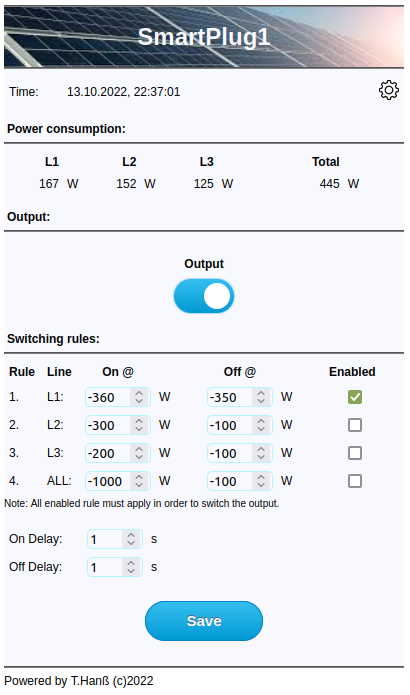
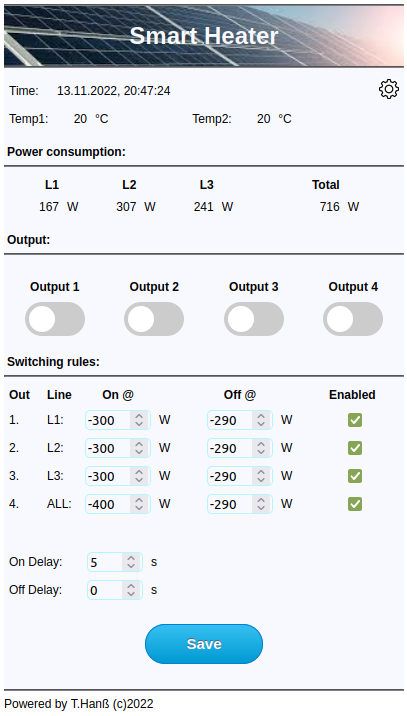
Add COM Timeout

diff --git a/src/mqtt.cpp b/src/mqtt.cpp
@@ -5,7 +5,6 @@
 #include "eMShome.h"
 #include "output.h"
 
-
 extern CLogging Logging;
 extern CSettings Config;
 extern COutput Outputs;
@@ -19,16 +18,18 @@ const char* mqttUsername = "thing"; //MQTT username
 const char* mqttPassword = "2coem6nx3lh3myhqvf7wfjkn4l2ge3g3"; //Thing Key
 const char* mqttDeviceId = "9821e7ac-ff82-4414-8cfc-7de47cea3e32"; //Thing ID
 
-
 Cmqtt::Cmqtt(void)
 {
+  for (int i = 0 ; i < NO_OF_TOPICS ; i++)
+  {
+    m_TopicList[i].TopicName = "";
+  }
+  client.setServer(mqttServer, 1883);
+  //client.setCallback(std::bind(&mqtt::callback,std::placeholders::_3,this));
+  client.setCallback(callback);
 
-    client.setServer(mqttServer, 1883);
-    //client.setCallback(std::bind(&mqtt::callback,std::placeholders::_3,this));
-    client.setCallback(callback);
 
-
-    xTaskCreate(taskHandler,"mqtt",512*4,this,2,NULL );
+  xTaskCreate(taskHandler,"mqtt",512*8,this,2,NULL );
 }
 
 void Cmqtt::taskHandler (void * ClassPointer)
@@ -40,23 +41,61 @@ void Cmqtt::taskHandler (void * ClassPointer)
 }
 
 
+
+void Cmqtt::publish(String TopicName, String Value, uint32_t nGap_s, uint32_t nRefresh_s )
+{
+  uint32_t Now = millis()/1000;
+  for (int i = 0 ; i < NO_OF_TOPICS ; i++)
+  {
+    if (  (m_TopicList[i].TopicName == TopicName) && 
+          (Now > (m_TopicList[i].LastSend + nGap_s)) && 
+          ( (m_TopicList[i].LastValue != Value) || (Now > (m_TopicList[i].LastSend + nRefresh_s)) ) )
+    {
+      Serial.printf("Found: %s Value: %s\n", TopicName, Value);
+      m_TopicList[i].LastValue = Value;
+      m_TopicList[i].LastSend = Now;
+      client.publish(TopicName.c_str(), Value.c_str()); 
+      return;
+    }
+    if (m_TopicList[i].TopicName  == "")
+    {
+      Serial.printf("New: %s Value: %s\n", TopicName, Value);
+      m_TopicList[i].TopicName = TopicName;
+      m_TopicList[i].LastValue = Value;
+      m_TopicList[i].LastSend = Now;
+      client.publish(TopicName.c_str(), Value.c_str()); 
+      return;
+    }
+  }
+}
+
+void Cmqtt::publish(String TopicName, int Value, uint32_t nGap_s, uint32_t nRefresh_s )
+{
+  publish(TopicName, String(Value), nGap_s, nRefresh_s );
+}
+
+void Cmqtt::publish(String TopicName, float Value, uint32_t nGap_s, uint32_t nRefresh_s )
+{
+  publish(TopicName, String(Value), nGap_s, nRefresh_s );
+}
+
 void Cmqtt::update (void )
 {
     reconnect();
     client.loop();
-    client.publish("WaterTemp", String(Logging.getSensor(0)).c_str());
-    client.publish("HeaterTemp", String(Logging.getSensor(1)).c_str());
-    client.publish("LineTotal", String(SmartMeter.getActivePower_W(0)).c_str());
-    client.publish("Line1", String(SmartMeter.getActivePower_W(1)).c_str());
-    client.publish("Line2", String(SmartMeter.getActivePower_W(2)).c_str());
-    client.publish("Line3", String(SmartMeter.getActivePower_W(3)).c_str());
-    client.publish("Output1", String(Outputs.get(0)*100).c_str());
-    client.publish("Output2", String(Outputs.get(1)*100).c_str());
-    client.publish("Output3", String(Outputs.get(2)*100).c_str());
-    client.publish("Output4", String(Outputs.get(3)*100).c_str());
-       
-}
+   
+    publish("WaterTemp", Logging.getSensor(0));
+    publish("HeaterTemp", Logging.getSensor(1));
+    publish("LineTotal", SmartMeter.getActivePower_W(0));
+    publish("Line1", SmartMeter.getActivePower_W(1));
+    publish("Line2", SmartMeter.getActivePower_W(2));
+    publish("Line3", SmartMeter.getActivePower_W(3));
+    publish("Output1", Outputs.get(0)*100);
+    publish("Output2", Outputs.get(1)*100);
+    publish("Output3", Outputs.get(2)*100);
+    publish("Output4", Outputs.get(3)*100);
 
+}
 
 void Cmqtt::reconnect(void)
 {
@@ -87,7 +126,7 @@ void Cmqtt::callback(char* topic, byte* payload, unsigned int length)
     Serial.print(" message: ");
     for (int i = 0; i < length; i++) 
     {
-        Serial.print((char)payload[i]);
+      Serial.print((char)payload[i]);
     }
     Serial.println();
 }

diff --git a/src/eMShome.cpp b/src/eMShome.cpp
@@ -141,7 +141,7 @@ void eMShome::taskHandler (void * ClassPointer)
     while(1){
         //printStack();
         static_cast<eMShome*> (ClassPointer)->update();
-        delay(250);
+        delay(TASK_INTERVAL_ms);
     }
 }
 
@@ -149,6 +149,8 @@ void eMShome::taskHandler (void * ClassPointer)
 //************************************************************
 void eMShome::update(void)
 {
+  static uint8_t TimeoutCounter = 0; // Timeout for getting new date
+  static uint64_t oldSeconds = 0;
 
   if (m_Conneced)
   {
@@ -163,6 +165,20 @@ void eMShome::update(void)
   {
     connect();
   }
+
+  if (oldSeconds != m_Seconds)
+  {
+    TimeoutCounter = 0;
+  }
+  oldSeconds = m_Seconds;
+  if (TimeoutCounter++ > (COM_TIMEOUT_ms / TASK_INTERVAL_ms)) //3s
+  {
+    ClearData();
+    m_Conneced = false;
+    connect();
+  }
+  
+
 }
 
 //************************************************************
@@ -518,4 +534,16 @@ int32_t eMShome::getActivePower_W(uint8_t Line)
   }
 
   return  (dataPoint[Index].Value / pow(10,dataPoint[Index].PowerOfTen))*dataPoint[Index].Sign;
+}
+
+
+//************************************************************
+//************************************************************
+// Line: 0 => Total; 1 => L1; 3 => L3; 3 => L3
+void eMShome::ClearData(void)
+{
+  for (int i = 0 ; i < 8;i++)
+  {
+   dataPoint[i].Value = 0;
+  }
 }

diff --git a/include/mqtt.h b/include/mqtt.h
@@ -4,8 +4,17 @@
 #include <WiFi.h>
 #include <PubSubClient.h>
 
+#define NO_OF_TOPICS 10
+
 class Cmqtt
 {
+    struct TxTopics
+    {
+        String TopicName;
+        String LastValue;
+        uint32_t LastSend;
+    };
+    
 public:
     Cmqtt();
     
@@ -13,9 +22,14 @@ public:
 private:
     static void taskHandler (void * ClassPointer);
     static void callback (char* topic, byte* payload, unsigned int length);
+    
+    void publish(String TopicName, float Value, uint32_t nGap_s = 15, uint32_t nRefresh_s  = (60*2) );
+    void publish(String TopicName, int Value, uint32_t nGap_s = 15, uint32_t nRefresh_s  = (60*2) );
+    void publish(String TopicName, String Value, uint32_t nGap_s = 15, uint32_t nRefresh_s = (60*2) );
     void update (void);
     void reconnect(void);
    
+    TxTopics  m_TopicList[NO_OF_TOPICS];
 };
 
 #endif

diff --git a/include/eMShome.h b/include/eMShome.h
@@ -9,7 +9,8 @@ using namespace websockets;
 
 //The Server sends data all 250ms. In order to reduce the CPU load skip ever x msg
 #define SKIP_EVER_x_MSG  4 
-
+#define TASK_INTERVAL_ms 100//ms
+#define COM_TIMEOUT_ms 3000
 class eMShome
 {
 public:
@@ -49,6 +50,8 @@ private:
   void updateDataPoint(uint64_t Key, uint64_t Value);
   void printMeasurmen (void); 
 
+  void ClearData(void);
+
   String     m_IP;      // SmartMeter IP
   String     m_PW;      // SmartMeter PW
 
@@ -56,6 +59,7 @@ private:
   String     m_buf;     // String buffer used to decode the Values
   uint32_t   m_pos;     // Possiont of the buffer used to decode the Values
  
+
   uint64_t   m_Seconds; // Timestamp send by eMShome
   uint32_t   m_NanoSec; // Timestamp send by eMShome
   String     m_Name;    // Name send by eMShome: always "smart_meter"

diff --git a/src/webIf.cpp b/src/webIf.cpp
@@ -181,7 +181,8 @@ void WebIf::onRequestData(void)
     oJSON["OUT3"] = Outputs.getOnOff(2);
     oJSON["OUT4"] = Outputs.getOnOff(3);  
     oJSON["TEMP1"] = Logging.getSensor(0);     
-    oJSON["TEMP2"] = Logging.getSensor(1);       
+    oJSON["TEMP2"] = Logging.getSensor(1); 
+    oJSON["Uptime"] = millis()/100;          
     String buf;
     serializeJson(oJSON,buf);
     m_oServer->send(200, "application/json", buf);

diff --git a/README.md b/README.md
@@ -1,24 +1,16 @@
-# ABL eMS home smart plug
+# ABL eMS home smart heater
 ## _A ESP32 project_
 
-This project is written for a smart plug to turn on and off an 
-electrical load depending on the excess energy from the photovoltaic array. The smart plug can fully controlled and configured via its own WebPage. 
+This project is written for a smart plug to turn on and off an electrical load depending on the excess energy from the photovoltaic array. The smart heater can fully controlled and configured via its own WebPage.  
 
 ![N|Solid](WebIF.png)
 
 ## Function:
-In my case, the smart meter was installed directly after the utility meter in order to see if the house is providing or receiving power.
-The smart plug opens a connection to the smart meter to get this information.The socket is then switched on and off via adjustable threshold values. Mains phase and an on/off delay can be selected.
+In my case, the smart meter was installed directly after the utility meter in order to see if the house is providing or receiving power.The smart heater opens a connection to the meter to get this information. The smart heater has four relay. A mains phase is assigned to each relay. The fourth relay refers to the total consumption. They switching on and off via adjustable current consumption / delivery threshold values.
 
 ## Hardware:
-I bought a "Usmart SP1-2" smart plug, removed its radio module and "installed" a preprogrammed ESP32-Wroom Module instead.
-A preprogrammed modul can easily updated over the air (Arduion - OTA).
+Own small PCB for a standard DIN rail housing.
 
-## Setup:
-To set up the plug, press and hold the button while plugging it in. After 5s the button flashes blue/red and a WLAN (SSID: SmartPlugX) was opened.
-Navigate to 192.168.4.1 and enter your network credentials, click save and cycle the plug.
-Check your DHCP leases from your wireless router to find out the plug's new IP address.   
-  
 ## eMS API description:
 Since ABL didn't provide me with an API for its eMS home Smartmeter, I reverse engineered the web interface and poured it into C++ code.
 I used eMS home software version V1.1 (https://www.ablmobility.de/de/emobility-blog/softwareupdateemshome.php)
@@ -32,5 +24,9 @@ It's all encapsulated into the eMShome class.
 It's a MS Visual Studio Code project using the Platform IO plugin.
 
 Extern libs:
+- paulstoffregen/OneWire@^2.3.7
+- milesburton/DallasTemperature@^3.11.0
+- knolleary/PubSubClient@^2.8
 - bblanchon/ArduinoJson@^6.19.4
-- gilmaimon/ArduinoWebsockets@^0.5.3 --->> NOTE: This lib was altert in order to get it working with the eMS home
+- gilmaimon/ArduinoWebsockets@^0.5.3 --->> NOTE: This lib was altert 
+in order to get it working with the eMS home
